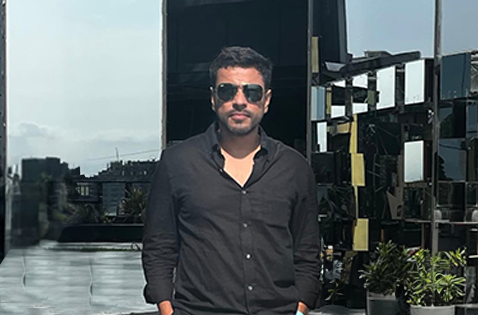
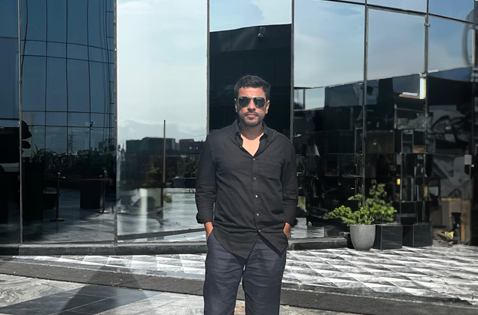
add our team

diff --git a/src/website/aboutUs/webpages/sections/aboutUsOurTeam.jsx b/src/website/aboutUs/webpages/sections/aboutUsOurTeam.jsx
@@ -1,7 +1,36 @@
 import PrimaryBodyText from "../../../styleComponents/primaryBodyText"
 import SectionMainHeader from "../../../styleComponents/sectionMainHeader"
+import ishika from "../../../../assets/ishika.png"
+import ravi from "../../../../assets/ravi.png"
+import shubangi from "../../../../assets/shubangi.png"
+import zeeshan from "../../../../assets/zeeshan.jpg"
 
 function AboutUsOurTeam() {
+
+  const team = [
+    {
+      name: "Zeeshan",
+      designation: "Senior Manager - Global Partnerships",
+      img: zeeshan
+    },
+    {
+      name: "Ishika",
+      designation: "Manager - Marketing",
+      img: ishika
+    },
+    {
+      name: "Ravi",
+      designation: "Manager - University Admissions & Operations",
+      img: ravi
+    },
+    {
+      name: "Shubhangi",
+      designation: "Assistant Manager - Operations",
+      img: shubangi
+    }
+  ];
+
+
   return (
     <div>
       <section className=" dark:bg-gray-900 antialiased ">
@@ -21,75 +50,22 @@ function AboutUsOurTeam() {
               creative ways.
             </PrimaryBodyText>
           </div>
-          <div className="grid grid-cols-1 gap-4 mt-8 lg:mt-12 sm:grid-cols-2 md:grid-cols-3 xl:grid-cols-5">
-            <div className="relative overflow-hidden rounded-lg group">
-              <img className="object-cover w-full h-[320px] lg:h-auto scale-100 ease-in duration-300 group-hover:scale-125" src="https://flowbite.s3.amazonaws.com/blocks/marketing-ui/team/member-1.png" alt="" />
-              <div className="absolute inset-0 grid items-end justify-center p-4 bg-gradient-to-b from-transparent to-black/60">
-                <div className="text-center">
-                  <p className="text-xl font-bold text-white">
-                    Robert Brown
-                  </p>
-                  <p className="text-base font-medium text-gray-300">
-                    CEO & Co-Founder
-                  </p>
+          <div className="grid grid-cols-1 gap-4 mt-8 lg:mt-12 sm:grid-cols-2 md:grid-cols-3 xl:grid-cols-4">
+            {team.map((member, index) => (
+              <div key={index} className="relative overflow-hidden rounded-lg group">
+                <img
+                  className="object-cover w-full h-[320px] lg:h-auto scale-100 ease-in duration-300 group-hover:scale-125"
+                  src={member.img}
+                  alt={member.name}
+                />
+                <div className="absolute inset-0 grid items-end justify-center p-4 bg-gradient-to-b from-transparent to-black/60">
+                  <div className="text-center">
+                    <p className="text-xl font-bold text-white">{member.name}</p>
+                    <p className="text-base font-medium text-gray-300">{member.designation}</p>
+                  </div>
                 </div>
               </div>
-            </div>
-            <div className="relative overflow-hidden rounded-lg group">
-              <img className="object-cover w-full h-[320px] lg:h-auto scale-100 ease-in duration-300 group-hover:scale-125" src="https://flowbite.s3.amazonaws.com/blocks/marketing-ui/team/member-1.png" alt="" />
-              <div className="absolute inset-0 grid items-end justify-center p-4 bg-gradient-to-b from-transparent to-black/60">
-                <div className="text-center">
-                  <p className="text-xl font-bold text-white">
-                    Robert Brown
-                  </p>
-                  <p className="text-base font-medium text-gray-300">
-                    CEO & Co-Founder
-                  </p>
-                </div>
-              </div>
-            </div>
-
-            <div className="relative overflow-hidden rounded-lg group">
-              <img className="object-cover w-full h-[320px] lg:h-auto scale-100 ease-in duration-300 group-hover:scale-125" src="https://flowbite.s3.amazonaws.com/blocks/marketing-ui/team/member-2.png" alt="" />
-              <div className="absolute inset-0 grid items-end justify-center p-4 bg-gradient-to-b from-transparent to-black/60">
-                <div className="text-center">
-                  <p className="text-xl font-bold text-white">
-                    Leslie Livingston
-                  </p>
-                  <p className="text-base font-medium text-gray-300">
-                    CTO & Co-Founder
-                  </p>
-                </div>
-              </div>
-            </div>
-
-            <div className="relative overflow-hidden rounded-lg group">
-              <img className="object-cover w-full h-[320px] lg:h-auto scale-100 ease-in duration-300 group-hover:scale-125" src="https://flowbite.s3.amazonaws.com/blocks/marketing-ui/team/member-3.png" alt="" />
-              <div className="absolute inset-0 grid items-end justify-center p-4 bg-gradient-to-b from-transparent to-black/60">
-                <div className="text-center">
-                  <p className="text-xl font-bold text-white">
-                    Joseph McFall
-                  </p>
-                  <p className="text-base font-medium text-gray-300">
-                    Front-end Developer
-                  </p>
-                </div>
-              </div>
-            </div>
-
-            <div className="relative overflow-hidden rounded-lg group">
-              <img className="object-cover w-full h-[320px] lg:h-auto scale-100 ease-in duration-300 group-hover:scale-125" src="https://flowbite.s3.amazonaws.com/blocks/marketing-ui/team/member-4.png" alt="" />
-              <div className="absolute inset-0 grid items-end justify-center p-4 bg-gradient-to-b from-transparent to-black/60">
-                <div className="text-center">
-                  <p className="text-xl font-bold text-white">
-                    Helene Engels
-                  </p>
-                  <p className="text-base font-medium text-gray-300">
-                    Front-end Developer
-                  </p>
-                </div>
-              </div>
-            </div>
+            ))}
           </div>
         </div>
       </section>

diff --git a/src/website/home/webpages/sections/homeHeroSection.jsx b/src/website/home/webpages/sections/homeHeroSection.jsx
@@ -59,31 +59,33 @@ function HomeHeroSection() {
             style={{ mixBlendMode: "multiply" }}
           ></div>
           {/* <div className="absolute inset-0 bg-gradient-to-b from-white to-black opacity-30 z-0"></div> */}
-          <div className="absolute  top-1/2 md:top-1/3 flex flex-col items-end justify-start  mx-auto px-4 lg:flex-row ">
-            <div className="text-start   text-white lg:w-2/3 px-1 lg:px-8">
+          <div className="absolute  top-1/2 md:top-1/3   mx-auto px-4  ">
+            <div className="text-start   text-white lg:w-2/3 lg:px-8">
               <p className="">
                 {textEffect}
               </p>
-              <h1 className="mb-6 md:mb-3 text-[42px]  font-medium tracking-tight leading-none text-white md:text-[75px]">
+              <h1 className="mb-6 md:mb-3 text-[42px]  font-medium  leading-none  text-white md:text-[75px]">
                 From Here to Anywhere-Dream Big, Study Global
               </h1>
-              <div className="w-40 md:w-52">
-                <button
-                  type="submit"
-                  className="py-1 md:py-3 rounded-xl w-full whitespace-nowrap px-8 mx-auto text-[20px] font-semibold text-center text-[#432205]  bg-yellow-primary hover:bg-black hover:text-white focus:ring-4 focus:outline-none focus:ring-yellow-400 dark:bg-yellow-300 dark:hover:bg-yellow-400 dark:focus:ring-yellow-500"
-                  onClick={handleClickBookNow}
-                >
-                  Book Now
-                </button>
-              </div>
+
+            </div>
+            <div className="w-full  flex  flex-col  gap-6 md:flex-row justify-between md:items-center  md:pl-8 mt-20">
+              <button
+                type="submit"
+                className="py-1 md:py-3 md:w-52 rounded-xl w-44 whitespace-nowrap px-8  text-[20px] font-semibold text-center text-[#432205]  bg-yellow-primary hover:bg-black hover:text-white focus:ring-4 focus:outline-none focus:ring-yellow-400 dark:bg-yellow-300 dark:hover:bg-yellow-400 dark:focus:ring-yellow-500"
+                onClick={handleClickBookNow}
+              >
+                Book Now
+              </button>
+              <button
+                onClick={() => navigate('/aboutUs')}
+                className=" hover:bg-white hover:bg-opacity-20 px-1 md:px-4 py-2 rounded-full transition-opacity flex justify-start items-center gap-2">
+                <Play className="text-white" size={15} />
+                <p className="text-white text-sm md:text-base">Why we build ABROAED ? </p>
+              </button>
             </div>
           </div>
-          <button
-            onClick={() => navigate('/aboutUs')}
-            className="absolute right-0 md:right-20 bottom-2 md:bottom-10 hover:bg-white hover:bg-opacity-20 px-4 py-2 rounded-full transition-opacity flex justify-center items-center gap-2">
-            <Play className="text-white" size={15} />
-            <p className="text-white">Why we build ABROAED ? </p>
-          </button>
+
         </section>
       </div>
     </>

diff --git a/src/website/home/webpages/sections/homeServicesSection.jsx b/src/website/home/webpages/sections/homeServicesSection.jsx
@@ -19,7 +19,7 @@ const serviceData = [
   {
     text1: "Home Consultation",
     text2:
-      "Experience personalized study abroad guidance from the comfort of your home. Our expert counselors visit you to understand your educational background, preferences, and long-term career vision. We explain study destinations, university options, course selection, application timelines, visa processes, and financial planning. This service is ideal for families who want clarity and expert advice without the hassle of traveling to an office. Available across Delhi and on-request in NCR and other states, our home consultations make the study abroad journey more accessible, informed, and comfortable for every student.",
+      "Experience personalized study abroad guidance from the comfort of your home. Our expert counsellors visit you to understand your educational background, preferences, and long-term career vision. We explain study destinations, university options, course selection, application timelines, visa processes, and financial planning. This service is ideal for families who want clarity and expert advice without the hassle of traveling to an office. Available across Delhi and on-request in NCR and other states, our home consultations make the study abroad journey more accessible, informed, and comfortable for every student.",
     imgUrl: homeService8,
   },
   {
@@ -32,7 +32,7 @@ const serviceData = [
   {
     text1: "Customized Personal Guidance",
     text2:
-      "Receive individual attention and expert guidance through every step of your study abroad journey. We begin by understanding your strengths and aspirations, helping you pick the right course and university. Our counselors assist with SOP writing, LORs, application review, and timely submission. We also support you with scholarship applications, interview readiness, and visa document preparation. This holistic, hands-on approach ensures your application is polished, competitive, and tailored to each institution. With us, you stay on track, informed, and fully equipped to achieve your global education goals.",
+      "Receive individual attention and expert guidance through every step of your study abroad journey. We begin by understanding your strengths and aspirations, helping you pick the right course and university. Our counsellors assist with SOP writing, LORs, application review, and timely submission. We also support you with scholarship applications, interview readiness, and visa document preparation. This holistic, hands-on approach ensures your application is polished, competitive, and tailored to each institution. With us, you stay on track, informed, and fully equipped to achieve your global education goals.",
     imgUrl: homeService2,
   },
   {

diff --git a/src/website/homeCounselling/webpages/sections/exploreOurServicesHomeCounselling.jsx b/src/website/homeCounselling/webpages/sections/exploreOurServicesHomeCounselling.jsx
@@ -15,7 +15,7 @@ const serviceData = [
     {
         text1: "Home Consultation",
         text2:
-            "Our home consultation brings expert advice to your doorstep. We assess your educational aspirations, preferred destinations, and potential career paths. This service ensures personalized guidance from experienced counselors in the comfort of your home. With a focus on clarity, we discuss program options, visa processes, and financial planning. This consultation provides families an opportunity to understand the study abroad process comprehensively. Our home consultation services cover throughout Delhi, but on request, we can also serve you in NCR-region and other states of India. We focus on answering your questions, explaining the process, and providing honest, practical advice to help you kick-start your journey.",
+            "Our home consultation brings expert advice to your doorstep. We assess your educational aspirations, preferred destinations, and potential career paths. This service ensures personalized guidance from experienced counsellors in the comfort of your home. With a focus on clarity, we discuss program options, visa processes, and financial planning. This consultation provides families an opportunity to understand the study abroad process comprehensively. Our home consultation services cover throughout Delhi, but on request, we can also serve you in NCR-region and other states of India. We focus on answering your questions, explaining the process, and providing honest, practical advice to help you kick-start your journey.",
         imgUrl: homeService1,
     },
     {

diff --git a/src/website/homeCounselling/data.js b/src/website/homeCounselling/data.js
@@ -22,7 +22,7 @@ export const steps = [
     {
         step: 1,
         heading: "Schedule Session",
-        description: "Fill out a simple form to choose a time that works for you. Our counselors will reach out to confirm the details."
+        description: "Fill out a simple form to choose a time that works for you. Our counsellors will reach out to confirm the details."
     },
     {
         step: 2,
@@ -143,7 +143,7 @@ export const cardDetails = [
     },
     {
         key: "Expert Guidance",
-        value: 'Our counselors have years of experience in helping students successfully plan their study abroad journeys.'
+        value: 'Our counsellors have years of experience in helping students successfully plan their study abroad journeys.'
 
     },
     {
@@ -184,7 +184,7 @@ export const faqHomecounselling = [
     {
         question: "How can ABROAED help my study ABROAED journey?",
         answer:
-            "Abroed is a global education agency that assists students in pursuing their studies in the UK. We advise on the best universities and courses based on your academic background and future goals, and assist you with the application process, including documentation support, visa guidance, and scholarship searches.",
+            "ABROAED is a global education agency that assists students in pursuing their studies in the UK. We advise on the best universities and courses based on your academic background and future goals, and assist you with the application process, including documentation support, visa guidance, and scholarship searches.",
     },
     // Add more FAQs here
 ]

diff --git a/src/website/aboutUs/webpages/sections/aboutUsOurMentors.jsx b/src/website/aboutUs/webpages/sections/aboutUsOurMentors.jsx
@@ -29,7 +29,7 @@ export const mentorsDetails = [
         text: (
             <div >
                 <p className="mb-2">
-                    At ABROAED, we are honored to be mentored by Molijit Lal, a respected academic leader and a key force behind the enduring excellence of IMM Business School. With a deep-rooted commitment to academic integrity and institutional growth, she has played a vital role in upholding and expanding IMM’s 55+ year legacy of delivering transformative education.
+                    At ABROAED, we are honoured to be mentored by Molijit Lal, a respected academic leader and a key force behind the enduring excellence of IMM Business School. With a deep-rooted commitment to academic integrity and institutional growth, she has played a vital role in upholding and expanding IMM’s 55+ year legacy of delivering transformative education.
                 </p>
                 <p className="mb-2">
                     As Registrar and Promoter, her structured, student-centric approach continues to shape IMM into a globally respected institution. At ABROAED, her mentorship brings that same spirit of discipline, compassion, and purpose. She helps us stay anchored in values while pushing forward with a global vision—ensuring every student journey is guided with care, clarity, and confidence.

diff --git a/src/website/abroaedPlus/data.js b/src/website/abroaedPlus/data.js
@@ -80,7 +80,7 @@ export const plans = [
         buttonText: "Continue with Basic",
         recommended: false,
         features: [
-            "Home Counseling - 3 Sessions",
+            "Home Counselling - 3 Sessions",
             "Research & Shortlisting",
             "Designated Coach",
             "Documentation Assistance",
@@ -101,7 +101,7 @@ export const plans = [
         buttonText: "Continue with Advance",
         recommended: true,
         features: [
-            "Home Counseling - 5 Sessions",
+            "Home Counselling - 5 Sessions",
             "Online One-on-One classes for English Language Test",
             "Application Submission",
             "Foreign Exchange Services (FOREX)",
@@ -119,7 +119,7 @@ export const plans = [
         buttonText: "Continue with Elite",
         recommended: false,
         features: [
-            "Home Counseling - Unlimited Sessions",
+            "Home Counselling - Unlimited Sessions",
             "Offline One-on-One classes for English Language Test (Home Tuition)",
             "Dedicated LOAN POC",
             "Alumni Mentor meet with various Universities",

diff --git a/src/website/leagueOfExcellence/data.js b/src/website/leagueOfExcellence/data.js
@@ -585,7 +585,7 @@ export const plans = [
         buttonText: "Continue with Basic",
         recommended: false,
         features: [
-            "Home Counseling - 3",
+            "Home Counselling - 3 Sessions",
             "Research & Shortlisting",
             "Designated Coach",
             "Documentation Assistance",
@@ -606,7 +606,7 @@ export const plans = [
         buttonText: "Continue with Advance",
         recommended: true,
         features: [
-            "Home Counseling - 5",
+            "Home Counselling - 5 Sessions",
             "Online One-on-One classes for English Language Test",
             "Application Submission",
             "Foreign Exchange Services (FOREX)",
@@ -624,7 +624,7 @@ export const plans = [
         buttonText: "Continue with Elite",
         recommended: false,
         features: [
-            "Home Counseling - Unlimited",
+            "Home Counselling - Unlimited Sessions",
             "Offline One-on-One classes for English Language Test (Home Tuition)",
             "Dedicated LOAN POC",
             "Alumni Mentor meet with various Universities",

diff --git a/src/website/destination/webpages/sections/destinationWorkOpportunitiesSection.jsx b/src/website/destination/webpages/sections/destinationWorkOpportunitiesSection.jsx
@@ -22,8 +22,7 @@ const DestinationWorkOpportunitiesSection = ({ destinationDetails }) => {
               >
                 Studying in the {destinationDetails?.countryId?.name} offers a
                 variety of experiences. The cultural and traditional values of
-                the
-                {destinationDetails?.countryId?.name} attract several
+                the {destinationDetails?.countryId?.name} attract several
                 international students every year. The popular areas of
                 employment in {destinationDetails?.countryId?.name} are as
                 follows:

diff --git a/src/website/homeCounselling/webpages/sections/whyChooseOurHomeCounselling.jsx b/src/website/homeCounselling/webpages/sections/whyChooseOurHomeCounselling.jsx
@@ -34,7 +34,7 @@ const WhyChooseOurHomeCounselling = () => {
           <div className="">
             <div className="text-gray-500 sm:text-lg dark:text-gray-400">
               <SectionMainHeader className={`md:mb-6 leading-tight md:leading-normal tracking-tighter md:tracking-normal `}>
-                Why Choose Our Home counselling?
+                Why Choose Our Home Counsellors?
               </SectionMainHeader>
             </div>
             <div className="grid  grid-cols-1 lg:grid-cols-2 gap-6 md:gap-10   mb-5 md:mt-10 mt-4 mx-auto ">

diff --git a/src/website/testPrep/webpages/sections/testPrepSimplifyThings.jsx b/src/website/testPrep/webpages/sections/testPrepSimplifyThings.jsx
@@ -22,7 +22,7 @@ const TestPrepSimplifyThings = () => {
                 your weak areas to maximize scores. With flexible online classes
                 and visa-focused coaching, we prepare you for both the exam and
                 your study abroad journey. Join thousands who've boosted their
-                scores by 20%+ within a month with our ith our results-driven
+                scores by 20%+ within a month with our results-driven
                 system.
               </PrimaryBodyText>
             </div>

diff --git a/src/website/home/components/TextGenerateEffect.jsx b/src/website/home/components/TextGenerateEffect.jsx
@@ -41,7 +41,7 @@ export const TextGenerateEffect = ({
         <div className={cn("font-bold", className)}>
             <div className="mt-4">
                 <motion.div
-                    className="dark:text-white text-white text-[24px] md:text-[32px] leading-snug tracking-wide"
+                    className="dark:text-white text-white text-[22px] md:text-[32px] leading-snug tracking-wide"
                     key={currentHeadingIndex}
                 >
                     {displayText}
